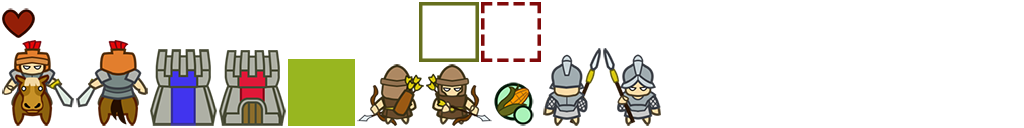
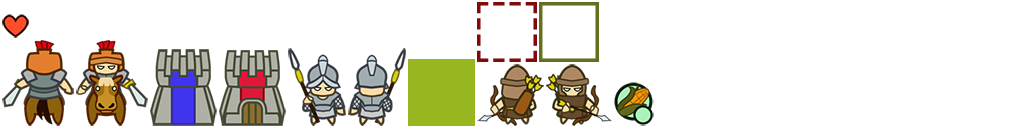
fix bug selection

Changed region(s): [[0.2812, 0.0, 0.6562, 1.0], [0.0, 0.0625, 0.1562, 1.0]]

diff --git a/core/src/com/olan/warmonger/Unit.java b/core/src/com/olan/warmonger/Unit.java
@@ -1,5 +1,6 @@
 package com.olan.warmonger;
 
+import com.badlogic.gdx.graphics.g2d.Batch;
 import com.badlogic.gdx.scenes.scene2d.utils.ClickListener;
 import com.badlogic.gdx.scenes.scene2d.InputEvent;
 
@@ -14,6 +15,7 @@ public class Unit extends TileObject {
   private int attackRange = 1;
   private int attackPoint = 2;
   private int healthPoint = 4;
+  private Text healthText;
 
   public Unit (Team team, int row, int column) {
     super(row, column);
@@ -26,7 +28,6 @@ public class Unit extends TileObject {
       setTexture(Assets.pikemanBack);
       setOffsetX(MANUAL_OFFSET_X);
     }
-
     setOffsetY(MANUAL_OFFSET_Y);
 
     addListener(new ClickListener () {
@@ -36,6 +37,24 @@ public class Unit extends TileObject {
         }
       }
     });
+
+    healthText = new Text(Assets.worldFont);
+    setHealthPoint(healthPoint);
+  }
+
+  @Override
+  public void draw (Batch batch, float parentAlpha) {
+    super.draw(batch, parentAlpha);
+
+    batch.draw(Assets.hearth,
+        getX() + getWidth() - Assets.hearth.getRegionWidth() / 2,
+        getY() - Assets.hearth.getRegionHeight() / 2);
+    healthText.draw(batch);
+  }
+
+  @Override
+  protected void	positionChanged () {
+    healthText.setCenter(getX() + getWidth(), getY());
   }
 
   public void addListener (UnitListener listerner) {
@@ -72,6 +91,7 @@ public class Unit extends TileObject {
 
   public void setHealthPoint (int healthPoint) {
     this.healthPoint = healthPoint;
+    healthText.setText(healthPoint + "");
   }
 
   public boolean canMoveTo (Tile tile) {

diff --git a/core/src/com/olan/warmonger/Assets.java b/core/src/com/olan/warmonger/Assets.java
@@ -13,16 +13,20 @@ public class Assets {
   public static TextureAtlas sprite;
 
   public static TextureRegion background;
+
   public static AtlasRegion tile;
+  public static AtlasRegion tileMark;
+  public static AtlasRegion selectionCombat;
+  public static AtlasRegion selectionNormal;
 
   public static AtlasRegion pikemanBack;
   public static AtlasRegion pikemanFront;
-  public static AtlasRegion tileMark;
-  public static AtlasRegion selectionNormal;
-  public static AtlasRegion selectionCombat;
+
   public static AtlasRegion castleBlue;
   public static AtlasRegion castleRed;
+
   public static AtlasRegion corn;
+  public static AtlasRegion hearth;
 
   public static BitmapFont worldFont;
 
@@ -48,14 +52,18 @@ public class Assets {
     background = new TextureRegion(backgroundTexture);
 
     tile = loadTexture("tile");
+    tileMark = loadTexture("tile-mark");
+    selectionCombat = loadTexture("selection-combat");
+    selectionNormal = loadTexture("selection-normal");
+
     pikemanBack = loadTexture("pikeman-back");
     pikemanFront = loadTexture("pikeman-front");
-    tileMark = loadTexture("tile-mark");
-    selectionNormal = loadTexture("selection-normal");
-    selectionCombat = loadTexture("selection-combat");
+
     castleBlue = loadTexture("castle-blue");
     castleRed = loadTexture("castle-red");
+
     corn = loadTexture("corn");
+    hearth = loadTexture("hearth");
   }
 
   public static void loadFont () {

diff --git a/core/src/com/olan/warmonger/mapstate/StateUnitSelected.java b/core/src/com/olan/warmonger/mapstate/StateUnitSelected.java
@@ -17,14 +17,33 @@ public class StateUnitSelected implements MapState.State {
       for (int j = 0; j < Map.COLUMN; j++) {
         tile = map.getTile(i, j);
         tile.markVisible(true);
+      }
+    }
 
-        if (unit.canMoveTo(tile)) {
-          Unit other = map.getUnit(tile.getRow(), tile.getColumn());
-          if (other != null && unit.getTeam() != other.getTeam()) {
-            tile.selectionCombatVisible(true);
-          } else {
-            tile.selectionVisible(true);
-          }
+    Unit other;
+    boolean foundEnemy = false;
+    int row = unit.getRow();
+    int column = unit.getColumn();
+    if (unit.getTeam() == Team.BLUE) {
+      for (int i = row; i <= row + unit.getMoveRange(); i++) {
+        tile = map.getTile(i, column);
+        other = map.getUnit(i, column);
+        if (other != null && unit.getTeam() != other.getTeam()) {
+          tile.selectionCombatVisible(true);
+          foundEnemy = true;
+        } else if (!foundEnemy) {
+          tile.selectionVisible(true);
+        }
+      }
+    } else {
+      for (int i = row; i >= row - unit.getMoveRange(); i--) {
+        tile = map.getTile(i, column);
+        other = map.getUnit(i, column);
+        if (other != null && unit.getTeam() != other.getTeam()) {
+          tile.selectionCombatVisible(true);
+          foundEnemy = true;
+        } else if (!foundEnemy) {
+          tile.selectionVisible(true);
         }
       }
     }

diff --git a/core/src/com/olan/warmonger/Map.java b/core/src/com/olan/warmonger/Map.java
@@ -22,11 +22,11 @@ public class Map extends Group implements Unit.UnitListener, Tile.TileListener {
 
   private Unit selectedUnit;
   private Team currentTeam;
+  private MapState mapState;
 
   private Player redPlayer = new Player(Team.RED);
   private Player bluePlayer = new Player(Team.BLUE);
 
-  private MapState mapState;
 
   public Map () {
     offsetX = (World.WIDTH - width) / 2;

diff --git a/core/src/com/olan/warmonger/Tile.java b/core/src/com/olan/warmonger/Tile.java
@@ -38,7 +38,7 @@ public class Tile extends GameObject {
 
   @Override
   public void draw (Batch batch, float parentAlpha) {
-    super.draw(batch, parentAlpha);
+    // super.draw(batch, parentAlpha);
 
     if (markVisible) {
       batch.draw(Assets.tileMark,

diff --git a/core/src/com/olan/warmonger/Castle.java b/core/src/com/olan/warmonger/Castle.java
@@ -17,7 +17,6 @@ public class Castle extends TileObject {
     } else {
       setTexture(Assets.castleBlue);
     }
-
     setOffsetY(MANUAL_OFFSET_Y);
   }
 
